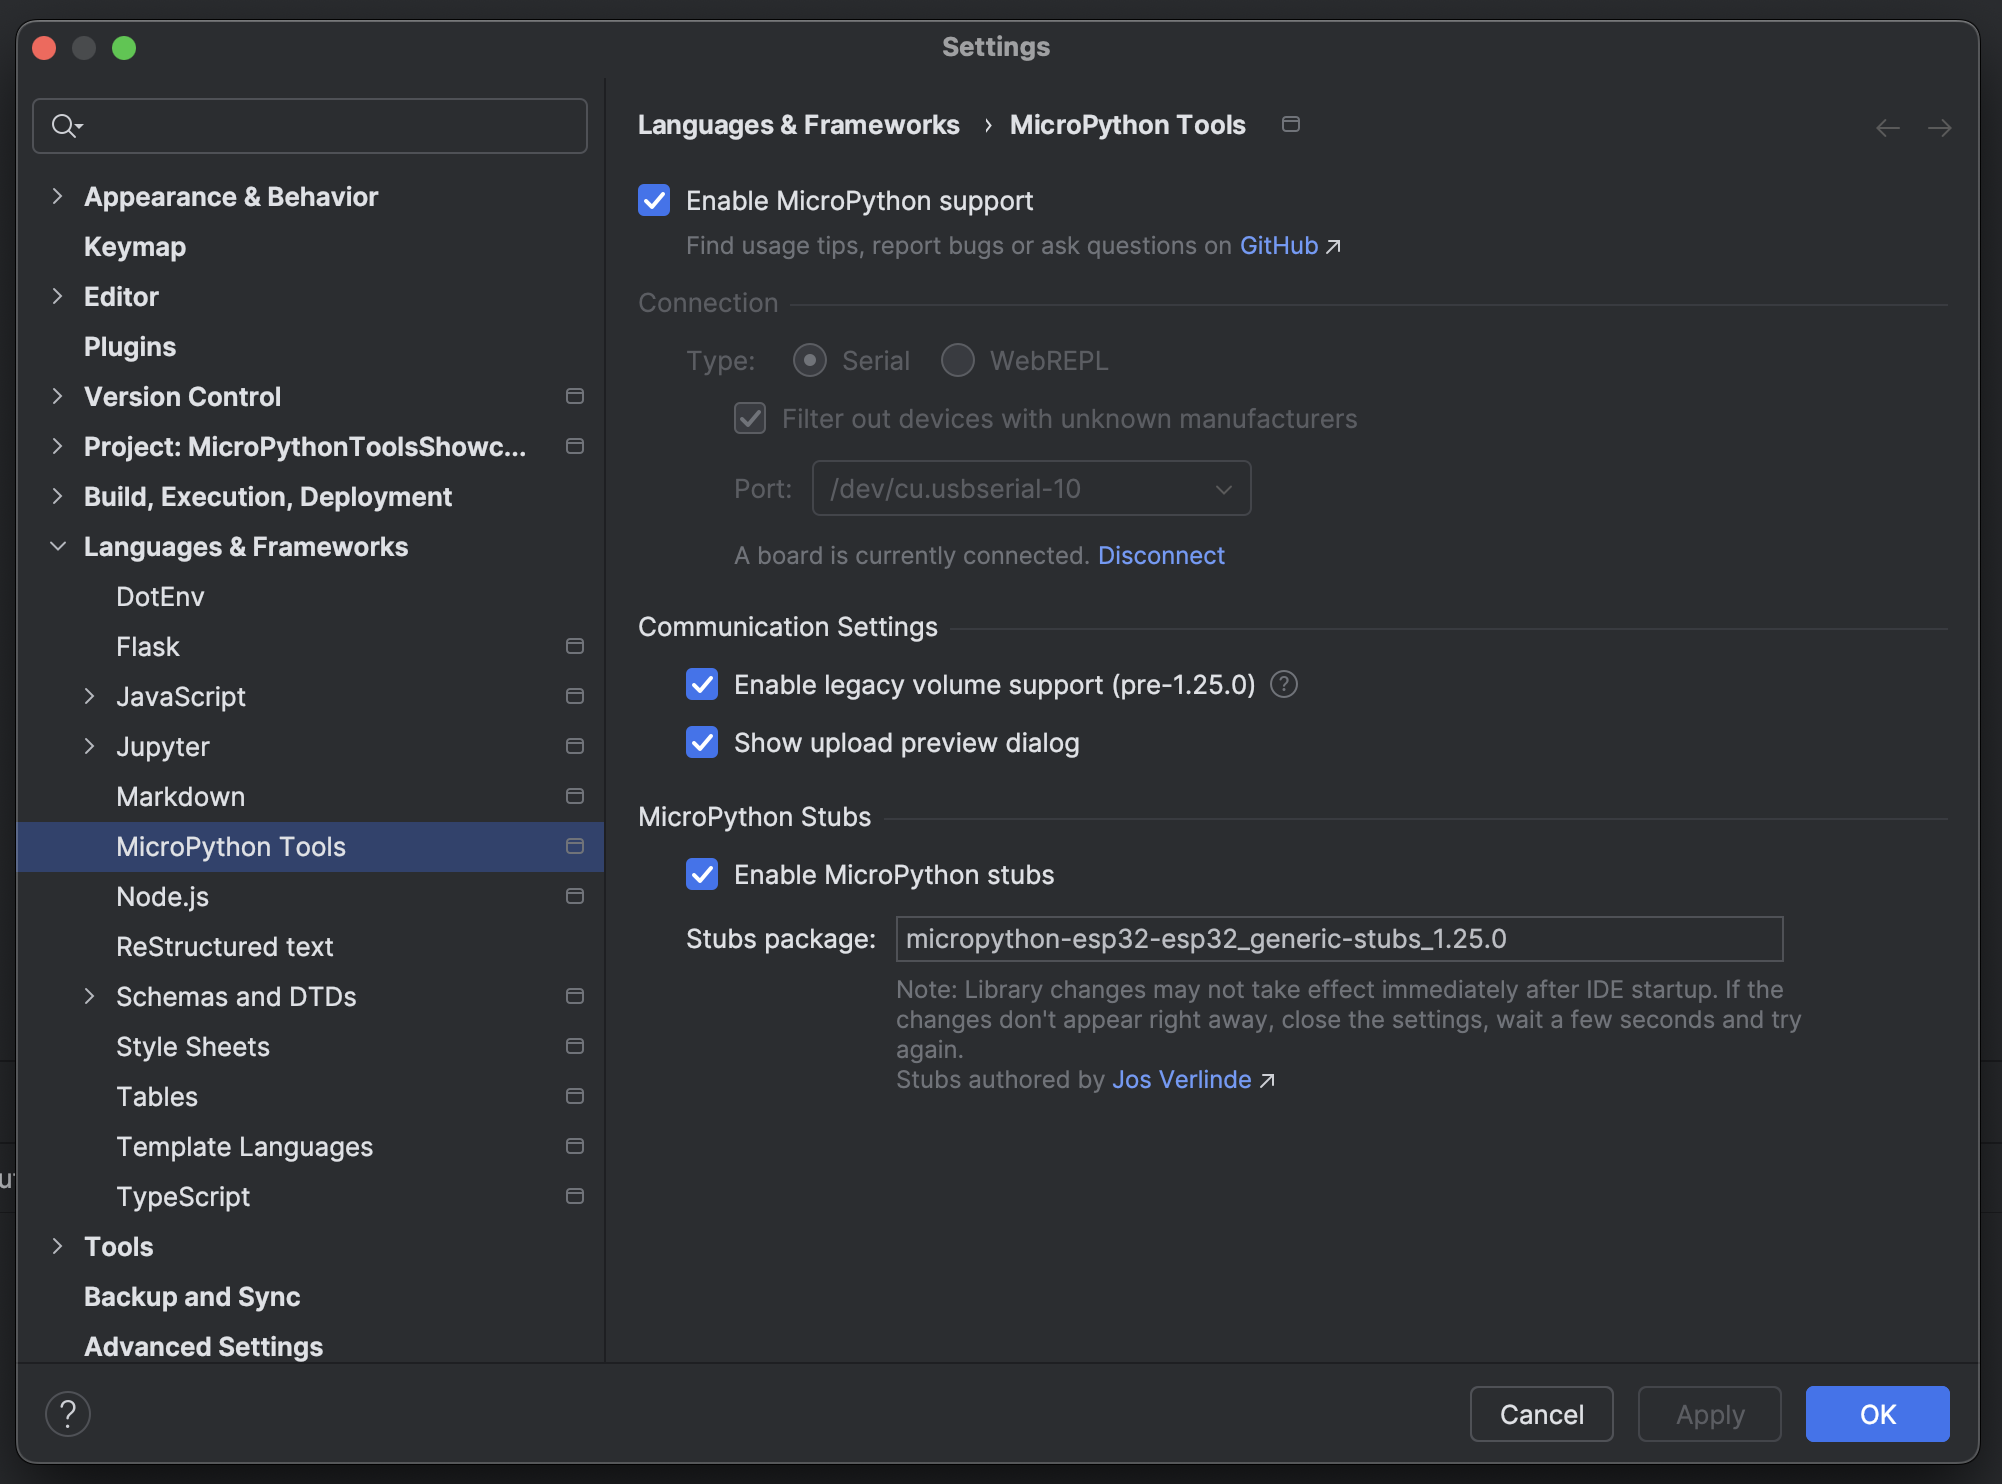
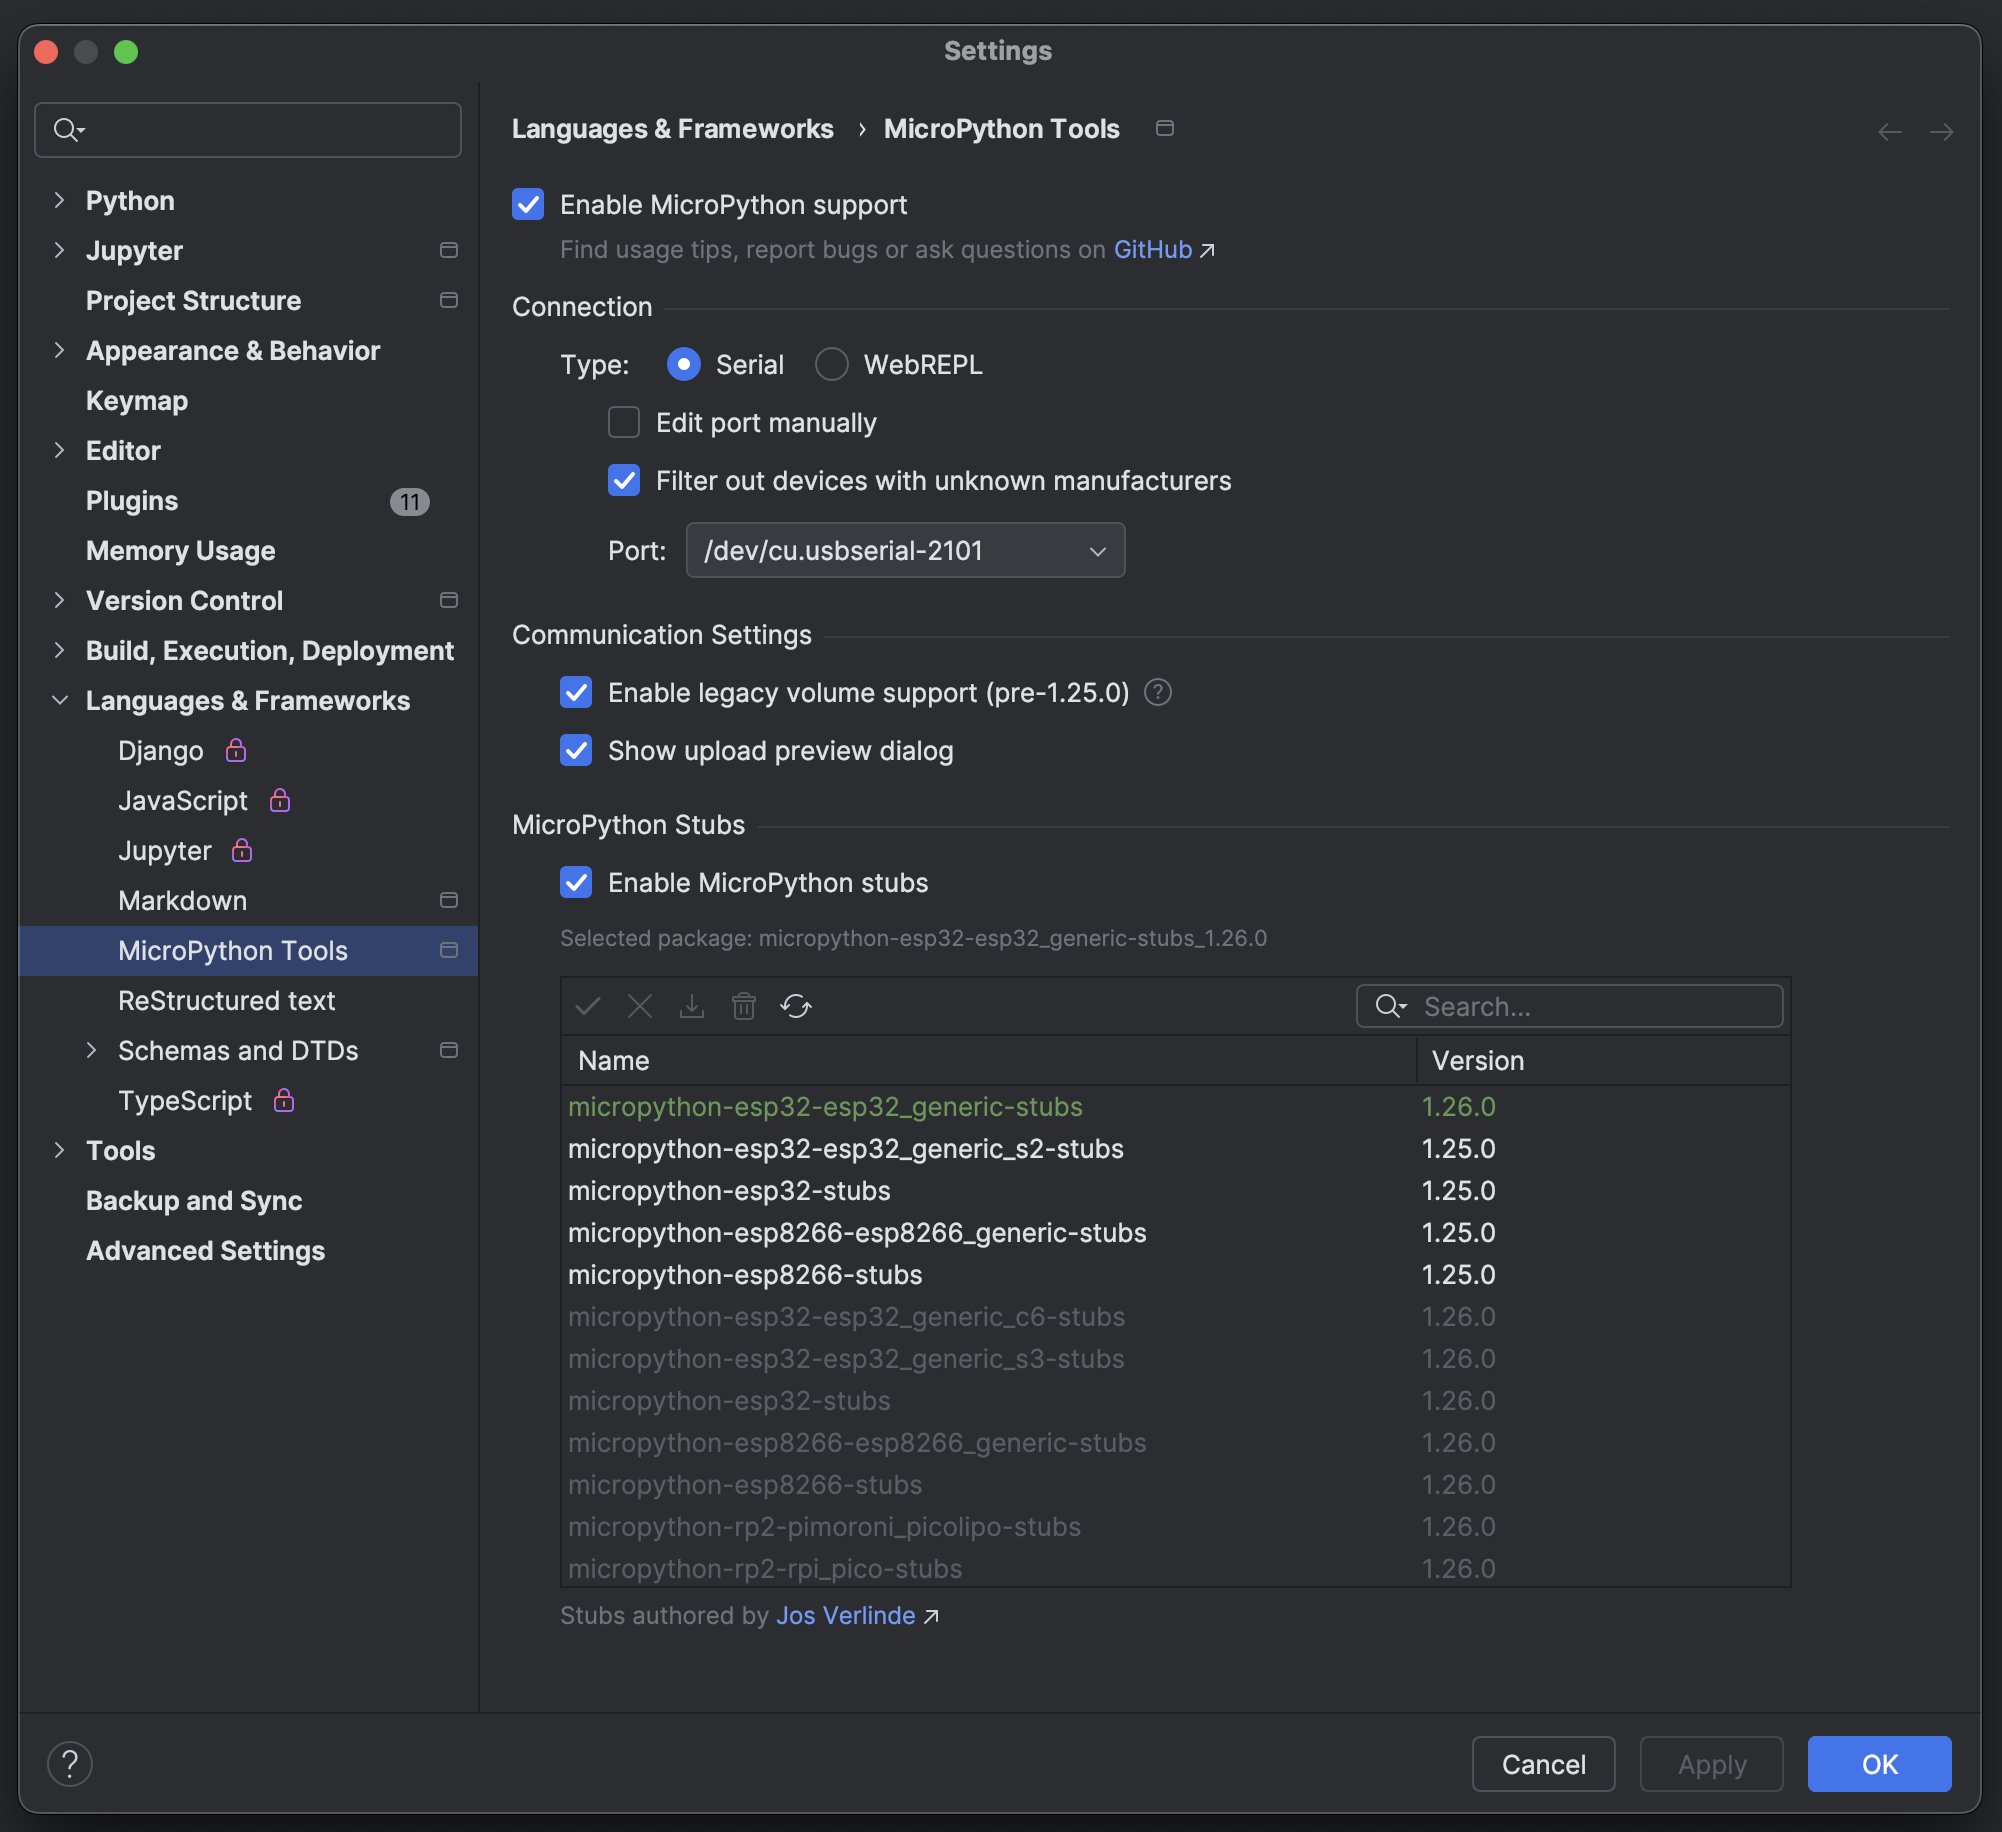
Updated README.md and DOCUMENTATION.md

diff --git a/README.md b/README.md
@@ -2,39 +2,21 @@
 
 [![JetBrains IntelliJ Downloads](https://img.shields.io/jetbrains/plugin/d/26227-micropython-tools?label=Downloads)](https://plugins.jetbrains.com/plugin/26227-micropython-tools)
 [![JetBrains IntelliJ Rating](https://img.shields.io/jetbrains/plugin/r/rating/26227-micropython-tools?label=Rating)](https://plugins.jetbrains.com/plugin/26227-micropython-tools)
+[![Reviews](https://img.shields.io/badge/Reviews-10-brightgreen)](https://plugins.jetbrains.com/plugin/26227-micropython-tools)
 
-This is a fork of the [JetBrains IntelliJ MicroPython plugin](https://github.com/JetBrains/intellij-micropython).
-Credits to [Andrey Vlasovskikh](https://github.com/vlasovskikh) for creating the original plugin and
-to [Ilia Motornyi](https://github.com/elmot) for his original work on the communication layer and file system view.
+This plugin brings MicroPython support into JetBrains IDEs.
+It provides reliable device file system integration, REPL support, stub package management, and smooth workflows for
+developing both hobbyist and professional MicroPython projects.
 
-Many thanks also go to [Jos Verlinde](https://github.com/Josverl/micropython-stubs) for creating and maintaining the
-MicroPython stubs that this plugin uses.
-
-I have decided fork the original jetbrains plugin as its development had slowed and I wanted to focus on implementing
-more advanced features that I deem invaluable based on my professional experience working with MicroPython
-
-I believe that the MicroPython community needs robust, actively maintained and developed tools adding MicroPython
-support to modern industry-standard IDEs. My aim with this fork is to address this need.
-
-There will be frequent updates, I'm actively working on developing new features and fixing bugs in the existing
-code. If you run into any problems while using this plugin, please create an issue. For any suggestions or feature
-requests, feel free to start a discussion.
-
-Some of the features you can expect soon include:
-
-- Reworked stubs manager, allowing on-demand downloading and updating of stub packages
-- Integration with mpy-cross to allow compiling to bytecode
-
-Long term plans:
-
-- Built-in MicroPython firmware flashing support
-- After the full-release of this plugin I might consider also developing MicroPython plugins for VSCode
-  and possibly Visual Studio 2022
+Originally inspired by JetBrains’ MicroPython plugin, this project has since been fully reworked and expanded into a
+standalone tool. Credit to [Jos Verlinde](https://github.com/Josverl/micropython-stubs) for creating and maintaining the
+stubs used here, and to [Ilia Motornyi](https://github.com/elmot) and
+[Andrey Vlasovskikh](https://github.com/vlasovskikh) for their work on the original plugin.
 
 ## Installation, Getting Started and Documentation
 
 Usage tips and documentation are available
-[here](https://github.com/lukaskremla/micropython-tools-jetbrains/blob/main/DOCUMENTATION.md)
+[here](https://github.com/lukaskremla/micropython-tools-jetbrains/blob/main/DOCUMENTATION.md).
 
 ## Features
 
@@ -44,6 +26,16 @@ Usage tips and documentation are available
 - Upload to or reorganize the file system via drag and drop
 - Supports mounted volumes (such as SD cards) and displays storage usage
   ![File System Widget](media/file_system.png)
+
+#### File System Actions
+
+- Create new files or directories
+- Fully working copy/cut/paste actions (project to device and device to device only)
+- Download source code from the device
+- Open and edit on-device files
+  ![File System Widget Context Menu](media/file_system_context_menu.png)
+- Edit or refresh the currently open on-device file
+  ![File System Widget Edit File](media/file_system_edit_file.png)
 
 ### REPL Widget
 
@@ -75,16 +67,21 @@ Usage tips and documentation are available
 - Built-in stubs management Integrates all available MicroPython stubs packages
   by [Jos Verlinde](https://github.com/Josverl/micropython-stubs)
 
+### Settings
+
+## MicroPython Stubs
+
+- Install and apply MicroPython stubs by [Jos Verlinde](https://github.com/Josverl/micropython-stubs) on-demand
+- The plugin automatically tracks the stubs versions and prompts you when an update is available
+
+![Settings](media/settings.png)
+
 ### Context Menu Actions
 
 - Quickly upload or execute selected files
   ![Context Menu File Actions](media/file_actions.png)
-- Custom "Mark as MicroPython Sources Root" action that allows compatibility with many different JetBrains IDEs
+- Custom "Mark as MicroPython Sources Root" action that allows compatibility with most JetBrains IDEs
   ![Context Menu MicroPython Sources Actions](media/micropython_sources.png)
-
-### Settings
-
-![Settings](media/settings.png)
 
 ## Requirements
 

diff --git a/DOCUMENTATION.md b/DOCUMENTATION.md
@@ -15,6 +15,8 @@
 - [File System Widget](#file-system-widget)
     - [Drag and Drop](#drag-and-drop-in-file-system-widget)
     - [Volume/SD card Support](#volume-support)
+    - [File System Context Menu](#file-system-context-menu)
+    - [Opening And Editing on-device files](#opening-and-editing-on-device-files)
 - [REPL Widget](#repl-widget)
 - [Uploads](#uploads)
     - [Run Configurations](#run-configurations)
@@ -119,11 +121,23 @@ modules (asyncio, time). This brings auto-completion, code checking and allows y
 
 ### Built-in stub package manager
 
-The plugin has a built-in MicroPython stub package manager. It utilizes MicroPython stubs by
-[Jos Verlinde](https://github.com/Josverl/micropython-stubs). The packages come bundled with the plugin, and you can
-select between them via the auto-completion text field.
+The plugin includes a stub package manager for the community-maintained MicroPython stubs
+by [Jos Verlinde](https://github.com/Josverl/micropython-stubs).
 
-Just start typing "micropython" and you'll be able to browse the available packages.
+The stub packages are shown in a table with a toolbar that lets you install, update, select, deselect, delete, and
+refresh them. A package must be installed before it can be selected. By default, no packages are installed (all entries
+appear grayed out).
+
+Table highlights:
+
+- Installed packages are shown in white and pinned to the top.
+- Update available packages are highlighted in blue.
+- Selected (active) packages are highlighted in green.
+
+If a selected package has an update pending, the IDE will display an in-editor inspection notice.
+
+A working internet connection is required to view, install, or update stub packages. Once installed, they remain
+available offline.
 
 ### Custom stub package
 
@@ -150,6 +164,30 @@ reflects the true state of the device's file system.
 
 You can also trigger a refresh manually via the toolbar action, this is useful for when you want to see changes your
 code has made.
+
+### File System Context Menu
+
+The file system context menu (right-click) provides the core actions you would expect from a fully featured OS file
+manager:
+
+- Create new files (.py or any other type) and directories
+- Copy / Cut / Paste (limited to project → device and device → device, never device → project)
+- Rename files or directories
+- Copy file or directory name / absolute path
+
+You can also download files from the device.
+
+⚠ Note: Downloads are potentially destructive. Ensure the destination directory does not contain items that would
+conflict with the files being downloaded.
+
+#### Opening And Editing on-device files
+
+On-device files can be opened directly in the IDE in read-only mode, with the option to enter edit mode.
+
+- Edits persist as long as the editor tab remains open.
+- You can save the modified file back to the device (if connected), or discard the changes to restore the original
+  version.
+- The opened file can be refreshed if a device is connected
 
 ### Drag and Drop in File System Widget
 
